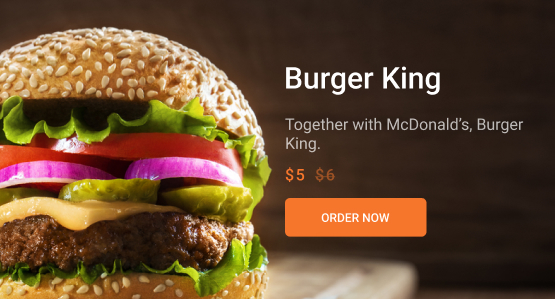
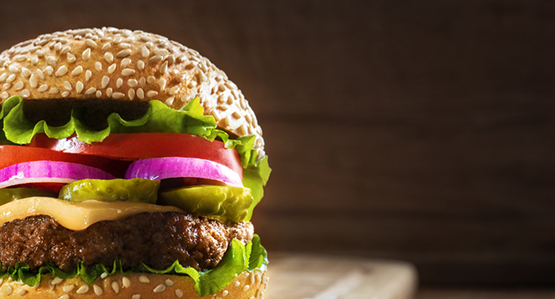
изменения card

diff --git a/index.html b/index.html
@@ -82,12 +82,33 @@
             
         </section>
         <section class="product">
-            <div class="conainer">
+            <div class="container">
                 <div class="product__cart card--queen">
                     <h4 class="product__title">Dairy Queen</h4>
                     <p class="product__desc">Dairy Queen is one of the biggest fast-food.</p>
                     <span class="product__price">$4</span>
                     <span class="product__price product__price--old">$6</span>
+                    <a href="#!" class="btn btn--small">Order now</a>
+                </div>
+                <div class="product__cart card--hut">
+                    <h4 class="product__title">Pizza Hut</h4>
+                    <p class="product__desc">Although the Pizza Hut Menu Prices.</p>
+                    <span class="product__price">$3</span>
+                    <span class="product__price product__price--old">$7</span>
+                    <a href="#!" class="btn btn--small">Order now</a>
+                </div>
+                <div class="product__cart card--king">
+                    <h4 class="product__title">Burger King</h4>
+                    <p class="product__desc">Together with McDonald’s, Burger King.</p>
+                    <span class="product__price">$5</span>
+                    <span class="product__price product__price--old">$6</span>
+                    <a href="#!" class="btn btn--small">Order now</a>
+                </div>
+                <div class="product__cart card--papa">
+                    <h4 class="product__title">Papa John’s</h4>
+                    <p class="product__desc">Papa John’s is one of the most popular fast-food.</p>
+                    <span class="product__price">$6</span>
+                    <span class="product__price product__price--old">$8</span>
                     <a href="#!" class="btn btn--small">Order now</a>
                 </div>
             </div>
@@ -97,19 +118,19 @@
 </html>
 <!-- 
 
-Pizza Hut
 
-Although the Pizza Hut Menu Prices .
+
+
 $4
 $6
 $3
 $7
 ORDER NOW
 ORDER NOW
-Burger King
-Papa John’s
-Together with McDonald’s, Burger King.
-Papa John’s is one of the most popular fast-food.
+
+
+
+
 $5
 $6
 $5

diff --git a/style.css b/style.css
@@ -212,11 +212,32 @@ padding: 30px 20px;
     margin-top: 10px;
 }
 
-.product {}
+.product {
+    padding: 150px 0;
+}
 
-.conainer {}
+.product .container {
+    display: flex;
+    flex-wrap: wrap;
+    gap: 30px;
+    justify-content: center;
+}
 
-.product__cart {}
+.product__cart {
+    box-sizing: border-box;
+    width: 555px;
+    min-height: 300px;
+    padding: 60px 30px 60px 290px;
+    background-color: #464043;
+    background-size: cover;
+    background-repeat: no-repeat;
+    background-position: center;
+}
+
+.product__cart:nth-child(even) {
+    padding-left: 30px;
+    padding-right: 290px;
+}
 
 .product__title {
     margin-bottom: 20px;
@@ -249,4 +270,13 @@ padding: 30px 20px;
 
 .card--queen{
     background-image: url(images/product-1.jpg);
+}
+.card--hut{
+    background-image: url(images/product-2.jpg);
+}
+.card--king{
+    background-image: url(images/product-3.jpg);
+}
+.card--papa{
+    background-image: url(images/product-4.jpg);
 }
